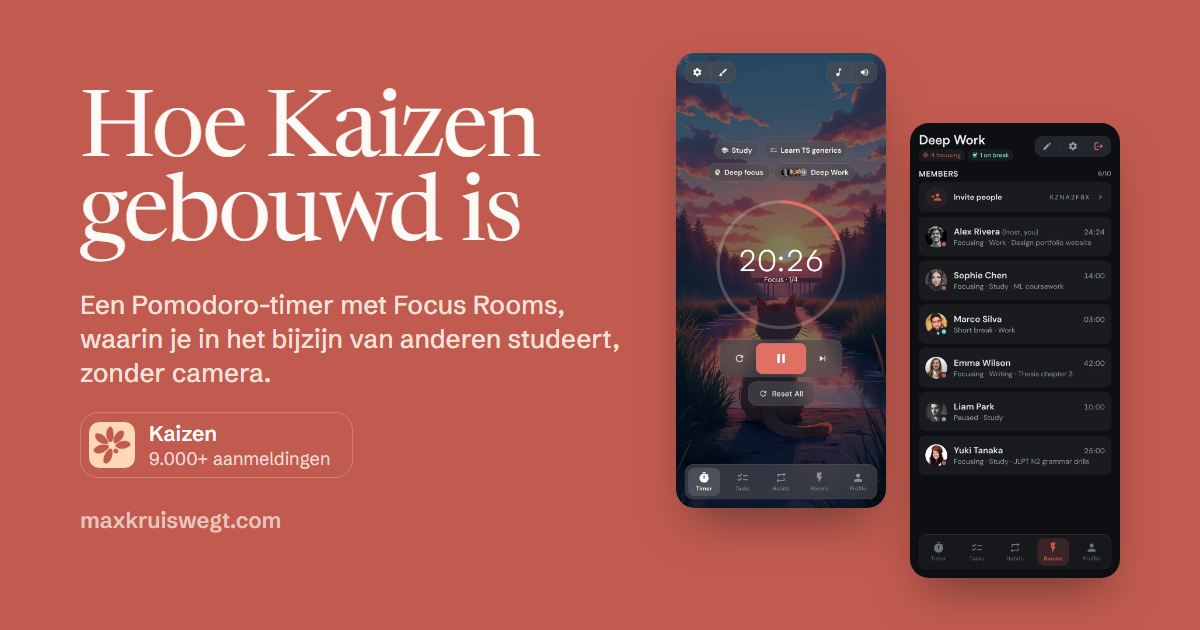
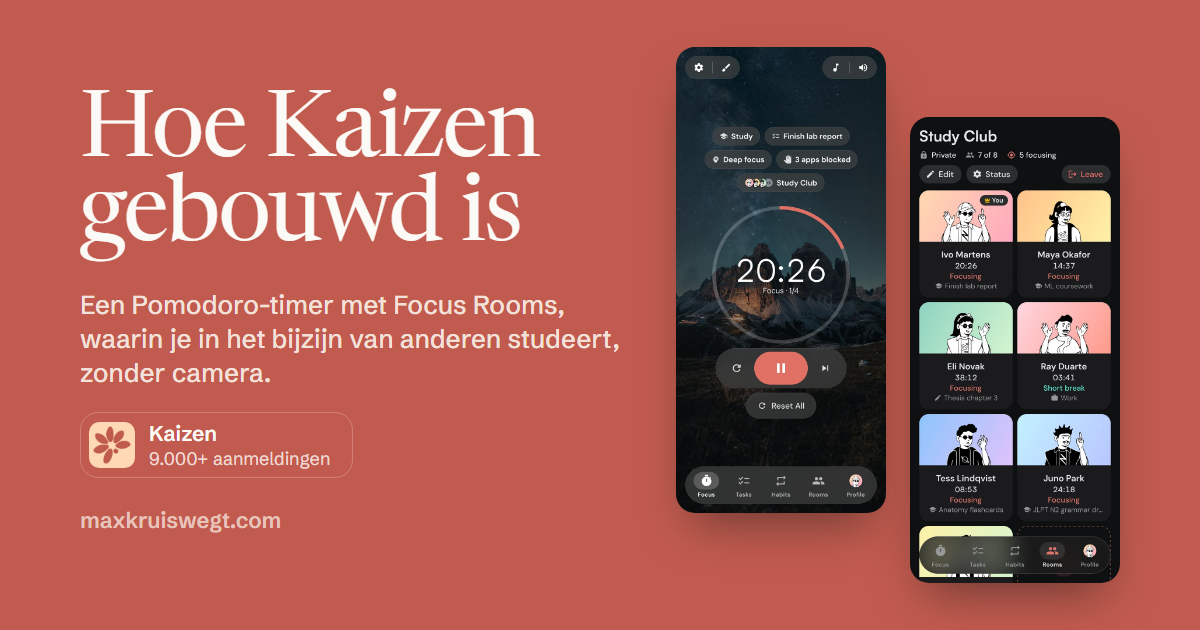
feat: show the Kaizen 5.2 screens

Changed region(s): [[0.555, 0.0603, 0.925, 0.9349]]

diff --git a/app/pages/og.vue b/app/pages/og.vue
@@ -64,14 +64,14 @@ const variant = computed(() => (route.query.variant === 'kaizen' ? 'kaizen' : 'h
       <img
         src="/images/kaizen/timer.webp"
         width="720"
-        height="1560"
+        height="1600"
         alt=""
         class="phone one"
       />
       <img
         src="/images/kaizen/room.webp"
         width="720"
-        height="1560"
+        height="1600"
         alt=""
         class="phone two"
       />
@@ -215,18 +215,18 @@ const variant = computed(() => (route.query.variant === 'kaizen' ? 'kaizen' : 'h
   transform: scaleX(-1);
 }
 
-/* Two 210px phones (455px tall) with a 24px gap, the second 70px lower: 444 x 525, centred. */
+/* Two 210px phones (467px tall) with a 24px gap, the second 70px lower: 444 x 537, centred. */
 .phones {
   position: relative;
   align-self: center;
   width: 444px;
-  height: 525px;
+  height: 537px;
 }
 
 .phone {
   position: absolute;
   width: 210px;
-  border-radius: 9% / 4.2%;
+  border-radius: 9% / 4.05%;
   box-shadow: 0 24px 48px -16px color-mix(in srgb, var(--text) 55%, transparent);
 }
 

diff --git a/app/components/kaizen/KaizenTour.vue b/app/components/kaizen/KaizenTour.vue
@@ -83,7 +83,7 @@ onBeforeUnmount(() => observer?.disconnect());
           <img
             :src="`/images/kaizen/${images[i]}.webp`"
             width="720"
-            height="1560"
+            height="1600"
             :alt="step.alt"
             loading="lazy"
             decoding="async"
@@ -102,7 +102,7 @@ onBeforeUnmount(() => observer?.disconnect());
             :key="name"
             :src="`/images/kaizen/${name}.webp`"
             width="720"
-            height="1560"
+            height="1600"
             alt=""
             loading="lazy"
             decoding="async"
@@ -140,7 +140,7 @@ h2 {
 }
 
 .phone {
-  --shot-radius: 9% / 4.2%;
+  --shot-radius: 9% / 4.05%;
 }
 
 .inline-phone {
@@ -161,7 +161,7 @@ h2 {
  */
 @media (min-width: 56rem) {
   .layout {
-    --phone-h: calc(19rem * 1560 / 720);
+    --phone-h: calc(19rem * 1600 / 720);
     --step-h: min(62vh, 36rem);
     display: grid;
     grid-template-columns: minmax(0, 1fr) minmax(0, 0.8fr);

diff --git a/app/components/home/HomeKaizen.vue b/app/components/home/HomeKaizen.vue
@@ -114,7 +114,7 @@ onBeforeUnmount(() => observer?.disconnect());
             ref="timer"
             src="/images/kaizen/timer.webp"
             width="720"
-            height="1560"
+            height="1600"
             :alt="t('kaizen.timerAlt')"
             loading="lazy"
             decoding="async"
@@ -125,7 +125,7 @@ onBeforeUnmount(() => observer?.disconnect());
             ref="room"
             src="/images/kaizen/room.webp"
             width="720"
-            height="1560"
+            height="1600"
             :alt="t('kaizen.roomAlt')"
             loading="lazy"
             decoding="async"
@@ -242,7 +242,7 @@ onBeforeUnmount(() => observer?.disconnect());
 }
 
 .phone {
-  --shot-radius: 9% / 4.2%;
+  --shot-radius: 9% / 4.05%;
   width: 100%;
 }
 

diff --git a/app/pages/kaizen.vue b/app/pages/kaizen.vue
@@ -84,7 +84,7 @@ useHead(() => ({
         <img
           src="/images/kaizen/timer.webp"
           width="720"
-          height="1560"
+          height="1600"
           :alt="t('kaizen.timerAlt')"
           fetchpriority="high"
           class="shot phone"
@@ -93,7 +93,7 @@ useHead(() => ({
         <img
           src="/images/kaizen/room.webp"
           width="720"
-          height="1560"
+          height="1600"
           :alt="t('kaizen.roomAlt')"
           decoding="async"
           class="shot phone phone-second"
@@ -194,7 +194,7 @@ h1 {
 }
 
 .phone {
-  --shot-radius: 9% / 4.2%;
+  --shot-radius: 9% / 4.05%;
   width: 100%;
 }
 

diff --git a/app/data/site.ts b/app/data/site.ts
@@ -6,7 +6,7 @@ export const site = {
   linkedin: 'https://www.linkedin.com/in/maxkruiswegt/',
   github: 'https://github.com/maxkruiswegt',
   dtt: { en: 'https://www.d-tt.nl/en', nl: 'https://www.d-tt.nl/' },
-  updated: '2026-11-11',
+  updated: '2026-11-17',
 } as const;
 
 export const kaizenLinks = {
